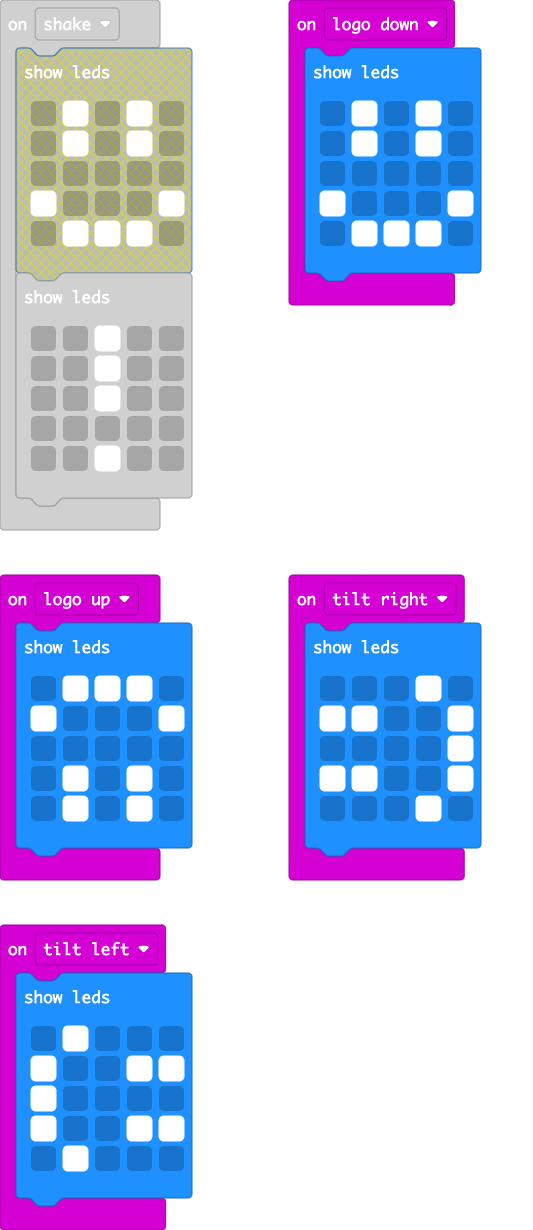
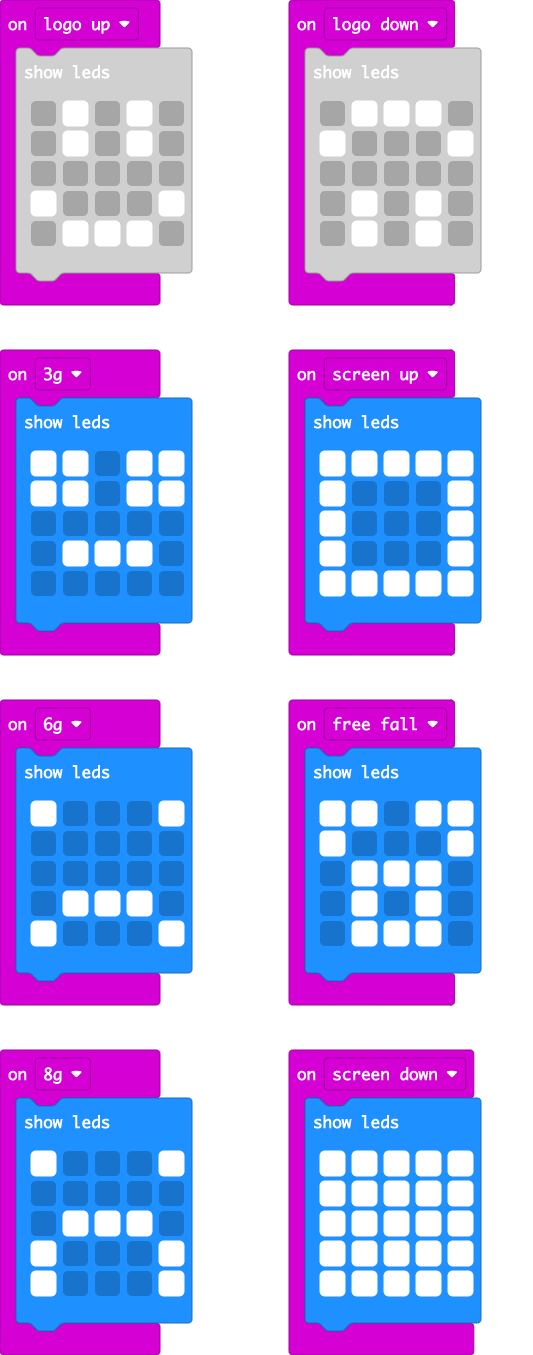
more actions :)

diff --git a/main.ts b/main.ts
@@ -1,3 +1,12 @@
+input.onGesture(Gesture.EightG, function () {
+    basic.showLeds(`
+        # . . . #
+        . . . . .
+        . # # # .
+        # . . . #
+        # . . . #
+        `)
+})
 input.onButtonPressed(Button.A, function () {
     basic.showNumber(6)
     basic.pause(100)
@@ -43,13 +52,22 @@ input.onButtonPressed(Button.A, function () {
     basic.pause(2000)
     basic.showIcon(IconNames.Heart)
 })
+input.onGesture(Gesture.FreeFall, function () {
+    basic.showLeds(`
+        # # . # #
+        # . . . #
+        . # # # .
+        . # . # .
+        . # # # .
+        `)
+})
 input.onGesture(Gesture.LogoUp, function () {
     basic.showLeds(`
-        . # # # .
-        # . . . #
+        . # . # .
+        . # . # .
         . . . . .
-        . # . # .
-        . # . # .
+        # . . . #
+        . # # # .
         `)
 })
 input.onGesture(Gesture.TiltLeft, function () {
@@ -59,6 +77,33 @@ input.onGesture(Gesture.TiltLeft, function () {
         # . . . .
         # . . # #
         . # . . .
+        `)
+})
+input.onGesture(Gesture.SixG, function () {
+    basic.showLeds(`
+        # . . . #
+        . . . . .
+        . . . . .
+        . # # # .
+        # . . . #
+        `)
+})
+input.onGesture(Gesture.ScreenUp, function () {
+    basic.showLeds(`
+        # # # # #
+        # . . . #
+        # . . . #
+        # . . . #
+        # # # # #
+        `)
+})
+input.onGesture(Gesture.ScreenDown, function () {
+    basic.showLeds(`
+        # # # # #
+        # # # # #
+        # # # # #
+        # # # # #
+        # # # # #
         `)
 })
 input.onButtonPressed(Button.B, function () {
@@ -84,10 +129,19 @@ input.onGesture(Gesture.TiltRight, function () {
 })
 input.onGesture(Gesture.LogoDown, function () {
     basic.showLeds(`
-        . # . # .
-        . # . # .
-        . . . . .
-        # . . . #
         . # # # .
+        # . . . #
+        . . . . .
+        . # . # .
+        . # . # .
+        `)
+})
+input.onGesture(Gesture.ThreeG, function () {
+    basic.showLeds(`
+        # # . # #
+        # # . # #
+        . . . . .
+        . # # # .
+        . . . . .
         `)
 })
